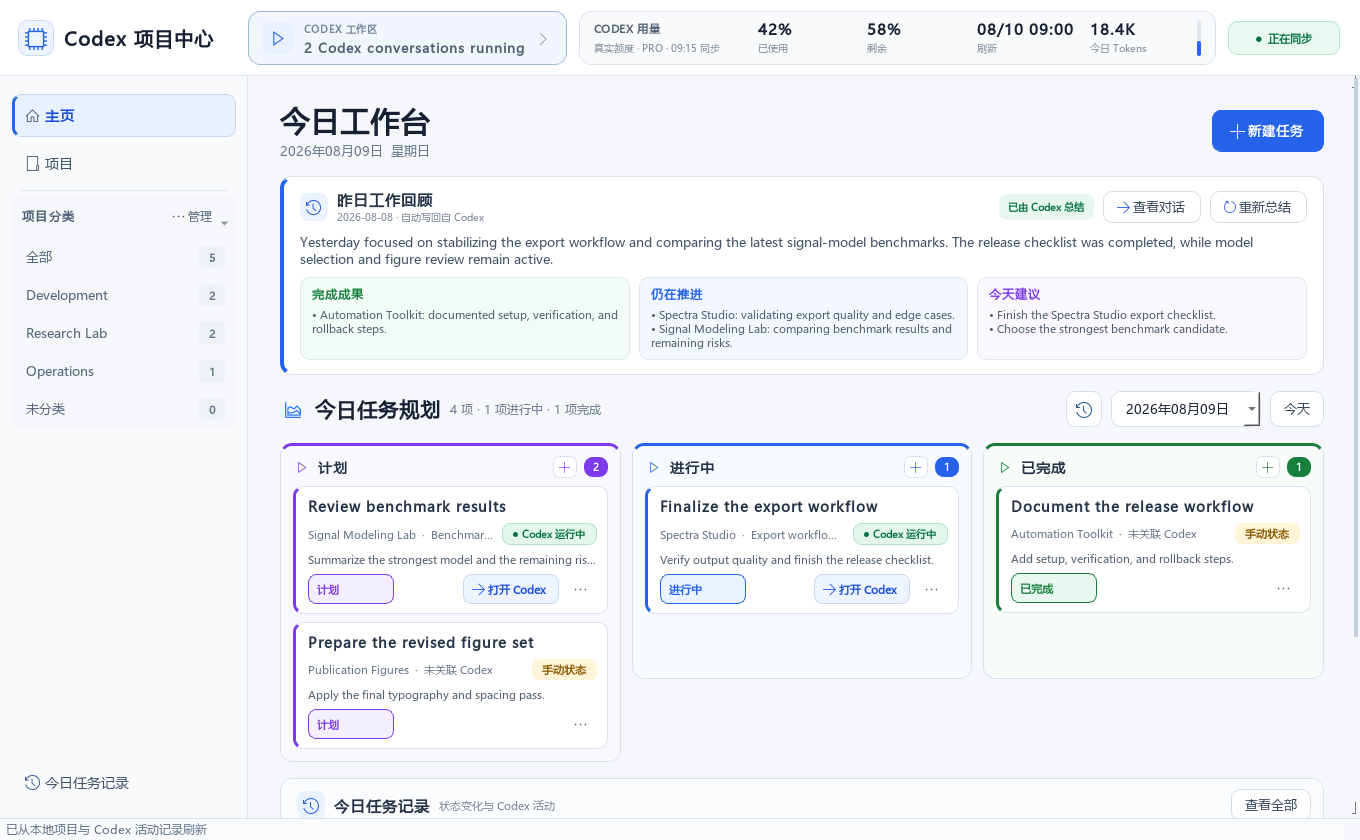
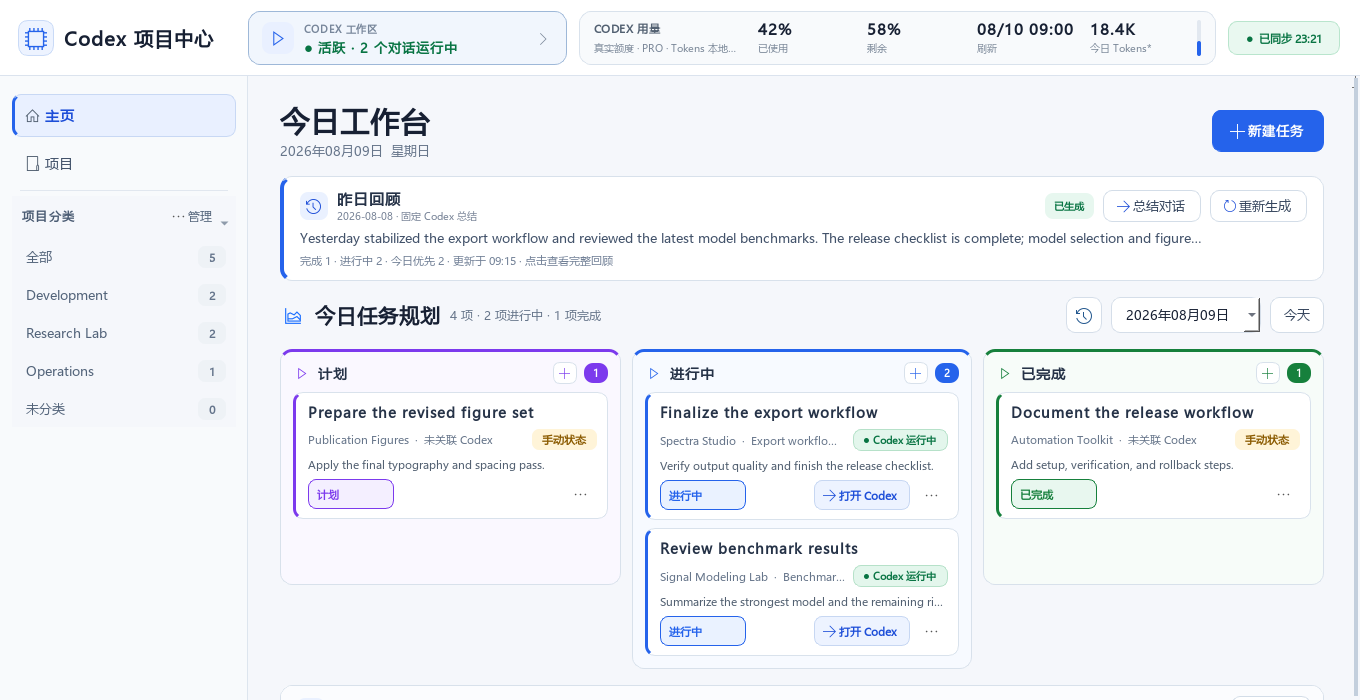
fix: simplify daily review interaction

diff --git a/tests/test_app_logic.py b/tests/test_app_logic.py
@@ -118,6 +118,16 @@ class DailySummaryTests(unittest.TestCase):
         with patch.dict(APP.os.environ, {"CODEX_HUB_SUMMARY_THREAD_ID": "summary-thread"}):
             self.assertEqual(APP.daily_summary_thread_id(), "summary-thread")
 
+    def test_compact_summary_prefers_a_complete_sentence(self):
+        text = "昨天完成了数据核验。随后继续调整训练参数并记录结果，今天准备补充对照实验。"
+        compact = APP.compact_summary_text(text, 20)
+        self.assertEqual(compact, "昨天完成了数据核验。")
+
+    def test_compact_summary_uses_ellipsis_without_sentence_boundary(self):
+        compact = APP.compact_summary_text("一段没有句号但明显超过限制的工作总结内容", 12)
+        self.assertTrue(compact.endswith("…"))
+        self.assertLessEqual(len(compact), 12)
+
 
 if __name__ == "__main__":
     unittest.main()

diff --git a/README.md b/README.md
@@ -10,6 +10,10 @@ Codex remains the main interface for conversation and execution. This applicatio
 
 ![Daily task workspace](docs/images/daily-workspace.png)
 
+### Daily review
+
+![Codex-generated daily review dialog](docs/images/daily-summary-dialog.png)
+
 ### Projects and conversations
 
 ![Projects and linked Codex conversations](docs/images/project-list.png)
@@ -52,7 +56,8 @@ Removing a project from the application does not delete its folder or Codex conv
 - Keep a daily activity record.
 - Carry unfinished in-progress tasks to the next day while preserving previous records.
 - Automatically summarize the previous day's tasks through a user-configured fixed Codex conversation.
-- Write the structured review back to the home workspace as completed work, work in progress, and suggested next focus.
+- Keep the home review compact and open the full completed / in-progress / next-focus breakdown on click.
+- Show immediate progress and failure feedback when a review is regenerated, then write the structured result back into the workspace.
 
 ### Codex integration
 
